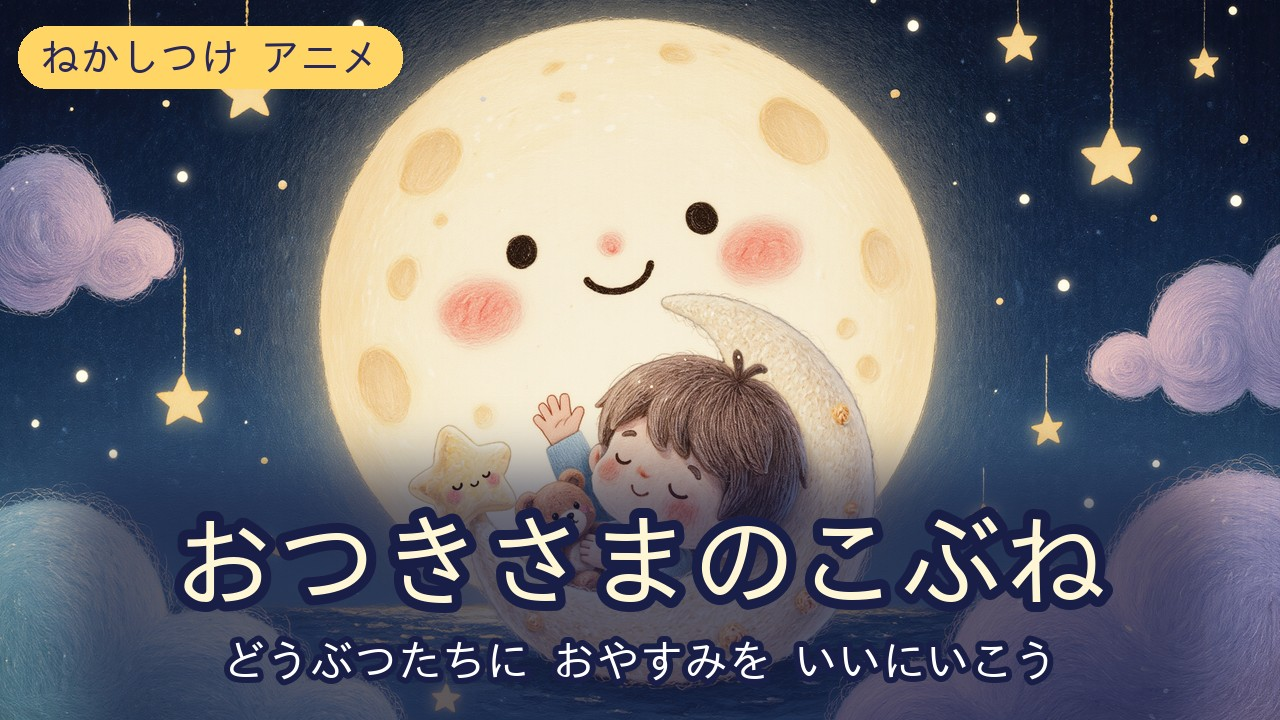
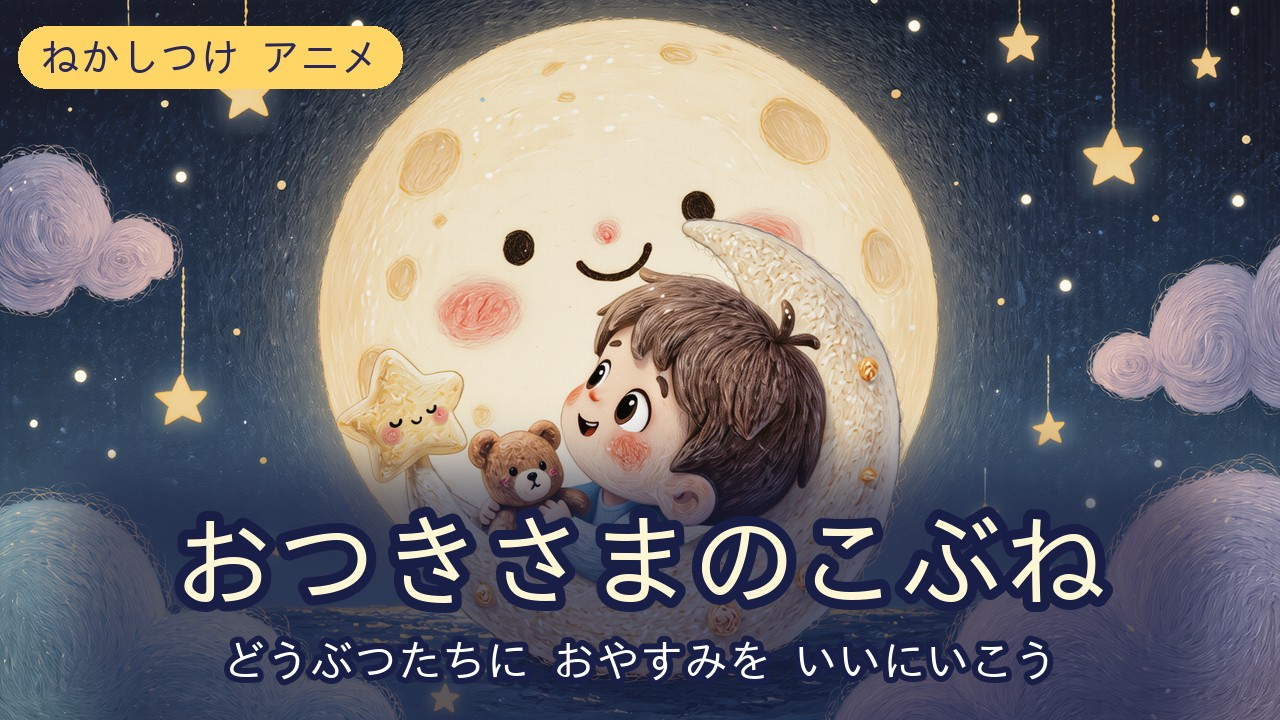
YouTube 公開の準備：サムネイルを完成版 v5 の絵で作り直し、公開までのチェックリストを追加
- サムネ案 A・B・C を、さくが目を開けた修正版の絵（v2）で作り直した
- 06_YouTube公開.md の冒頭に、アカウント準備からファイルの用意・設定・見直し・公開までのチェックリストを追加

Claude-Session: https://claude.ai/code/session_013i7g6hiJEwMkaJQnJC13pN

diff --git a/bedtime-animation/youtube/サムネ作成スクリプト.py b/bedtime-animation/youtube/サムネ作成スクリプト.py
@@ -16,14 +16,14 @@ def badge(d,xy,s,size=40):
     f=ImageFont.truetype(F,size); x,y=xy; b=d.textbbox((x,y),s,font=f)
     d.rounded_rectangle((b[0]-22,b[1]-14,b[2]+22,b[3]+14),30,fill=(255,214,102)); d.text((x,y),s,font=f,fill=(40,40,90))
 # 案A：大きなお月さま（カット13）＋下にタイトル
-im=base('カット13_おつきさまのそば_v1.png'); im=shade(im,(60,470,1220,720),170)
+im=base('カット13_おつきさまのそば_v2.png'); im=shade(im,(60,470,1220,720),170)
 d=ImageDraw.Draw(im)
 text(d,(640,560),'おつきさまのこぶね',104,(255,246,214),anchor='mm')
 text(d,(640,660),'どうぶつたちに おやすみを いいにいこう',44,(255,255,255),sw=6,anchor='mm')
 badge(d,(40,36),'ねかしつけ アニメ',40)
 im.save('サムネ案A_お月さま.jpg',quality=90)
 # 案B：ふくろうとさく（カット5）＋右上にタイトル
-im=base('カット05_ふくろうの木_v1.png'); im=shade(im,(560,20,1270,330),160)
+im=base('カット05_ふくろうの木_v2.png'); im=shade(im,(560,20,1270,330),160)
 d=ImageDraw.Draw(im)
 text(d,(915,120),'おつきさまの',78,(255,246,214),anchor='mm')
 text(d,(915,215),'こぶね',118,(255,246,214),anchor='mm')
@@ -31,7 +31,7 @@ text(d,(915,300),'ふくろうさん、おやすみ',40,(255,255,255),sw=6,ancho
 badge(d,(40,640),'ねかしつけ アニメ・約5分',36)
 im.save('サムネ案B_ふくろう.jpg',quality=90)
 # 案C：くじらとさく（カット10）＋上にタイトル
-im=base('カット10_くじらの海_v1.png'); im=shade(im,(40,10,1240,250),150)
+im=base('カット10_くじらの海_v2.png'); im=shade(im,(40,10,1240,250),150)
 d=ImageDraw.Draw(im)
 text(d,(640,105),'おつきさまのこぶね',100,(255,246,214),anchor='mm')
 text(d,(640,200),'8ひきの どうぶつに おやすみ',46,(255,255,255),sw=6,anchor='mm')

diff --git a/bedtime-animation/06_YouTube公開.md b/bedtime-animation/06_YouTube公開.md
@@ -1,5 +1,33 @@
 # YouTube 公開の手順と入力内容
 
+## 公開までの準備チェックリスト
+
+上から順に進めれば公開できます。くわしいやり方は、このファイルの下の各見出しにあります。
+
+**A. アカウントの準備（初回だけ）**
+- [ ] Google アカウントで YouTube にログインし、チャンネルを作る（右上のアイコン →「チャンネルを作成」）
+- [ ] 電話番号で本人確認をする（YouTube Studio →「設定」→「チャンネル」→「機能の利用資格」）。これをしないと、サムネイルを自分で設定できない
+
+**B. ファイルを手元に用意する**
+- [ ] 動画：`videos/完成版_v5_1080p.mp4`（約58MB、いちばん画質がよい）。GitHub のページを開き、右上の「ダウンロード」ボタンで保存する
+- [ ] 動画のファイル名を `寝かしつけアニメ_おつきさまのこぶね.mp4` に変える（検索に少し効く）
+- [ ] サムネイル：`youtube/サムネ案B_ふくろう.jpg`（おすすめ）。ほかに A（お月さま）、C（くじら）もある
+- [ ] 字幕：`youtube/寝かしつけアニメ_おつきさまのこぶね.ja.srt`
+- [ ] タイトル・説明文・タグ：このファイルの「タイトル」「説明文」「タグ」の枠の中をコピーして使う
+
+**C. アップロードと設定**（下の「アップロードの手順」）
+- [ ] 視聴者は「はい、子ども向けです」
+- [ ] 改変・合成コンテンツの開示は「いいえ」
+- [ ] まず「限定公開」で保存する
+
+**D. 公開前の見直し**
+- [ ] 限定公開のリンクを、自分のスマホとテレビで最後まで見る（音の大きさ、字幕の表示、チャプターの区切り）
+- [ ] 画面の明るさを下げた状態でも、絵が見えるか確かめる
+
+**E. 公開**
+- [ ] 夜7〜9時ごろに「公開」に切り替える（または予約公開）
+- [ ] 「寝かしつけ絵本アニメ」という再生リストを作って入れる
+
 ## 用意したもの
 
 | 項目 | ファイル |
@@ -7,7 +35,7 @@
 | 動画 | `videos/完成版_v5_1080p.mp4`（約4分45秒） |
 | サムネイル（おすすめ） | `youtube/サムネ案B_ふくろう.jpg`（1280×720） |
 | 字幕 | `youtube/寝かしつけアニメ_おつきさまのこぶね.ja.srt` |
-| サムネイル（ほかの案） | `youtube/サムネ案A_お月さま.jpg`、`youtube/サムネ案C_くじら.jpg` |
+| サムネイル（ほかの案） | `youtube/サムネ案A_お月さま.jpg`、`youtube/サムネ案C_くじら.jpg`（C はタイトルがさくに少し重なる） |
 
 サムネイルを自分で設定するには、YouTube アカウントの電話番号確認（本人確認）が先に必要です。
 
